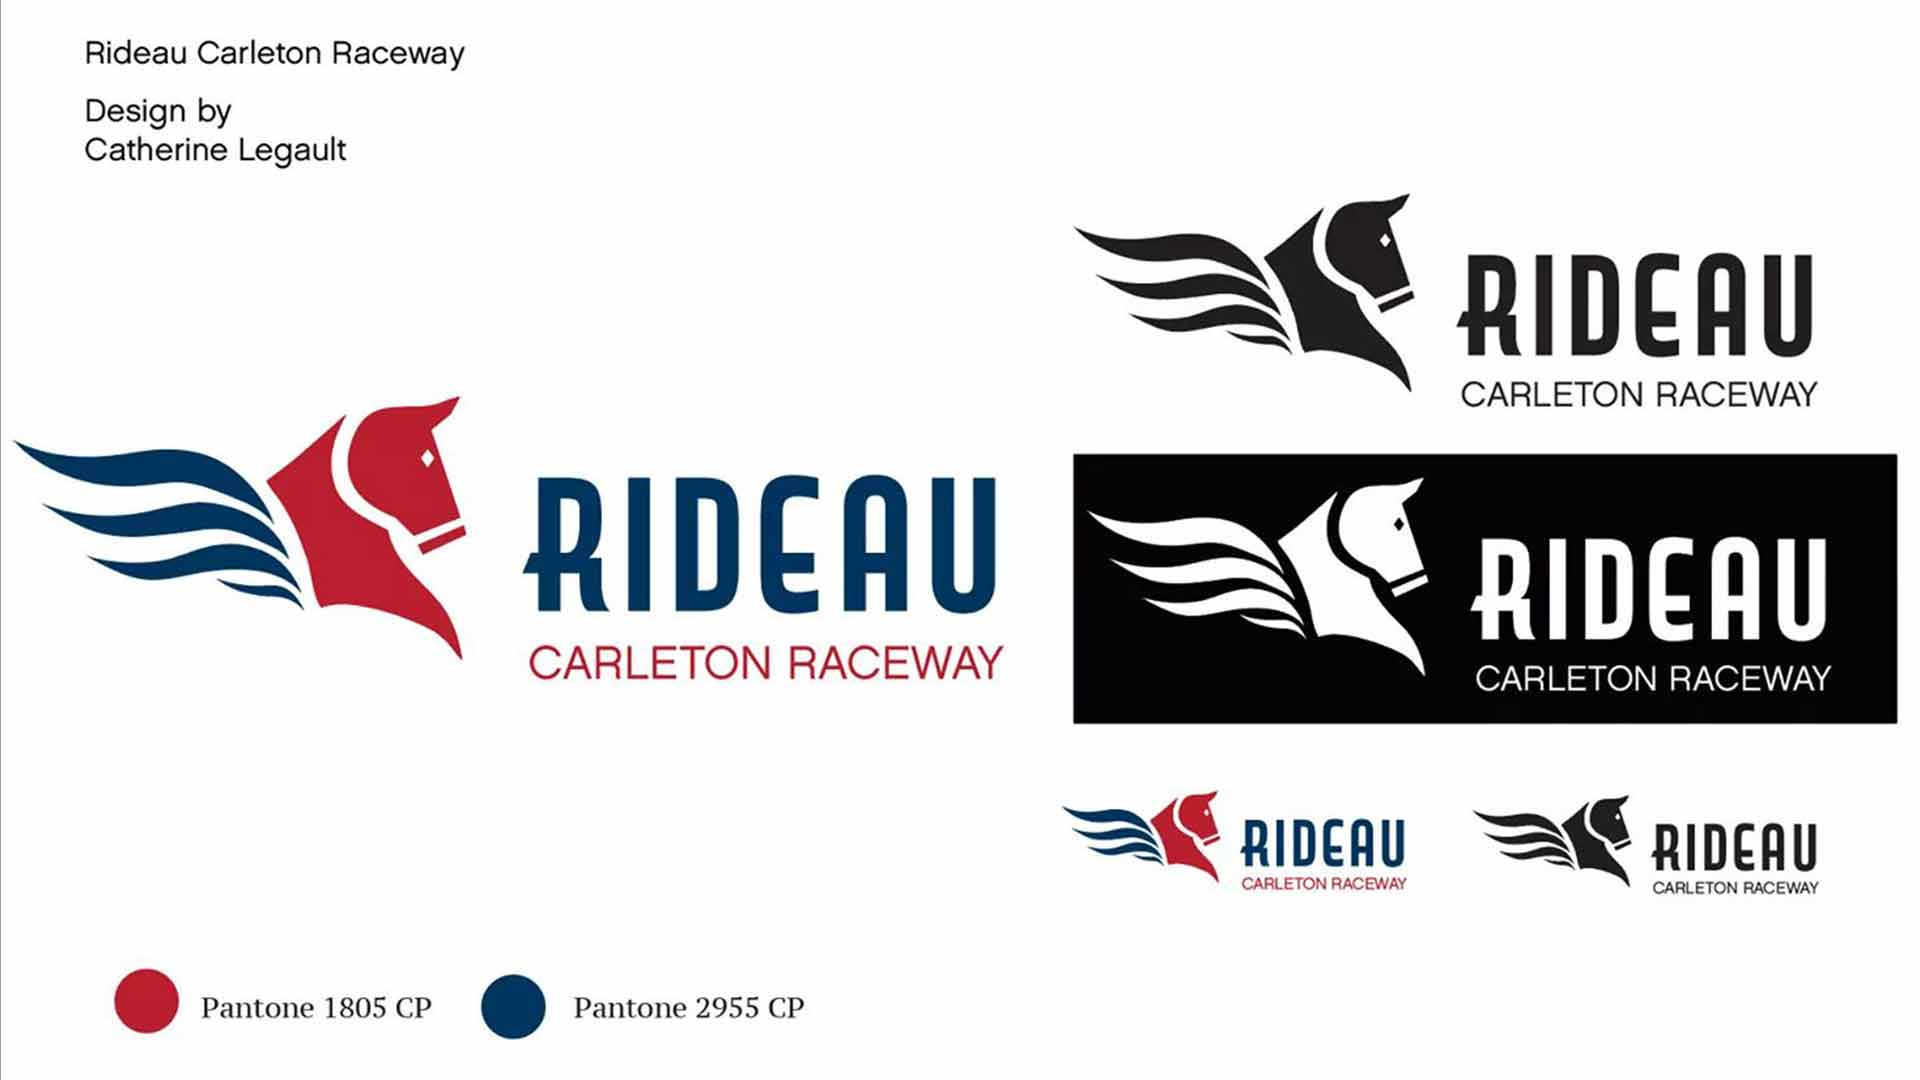
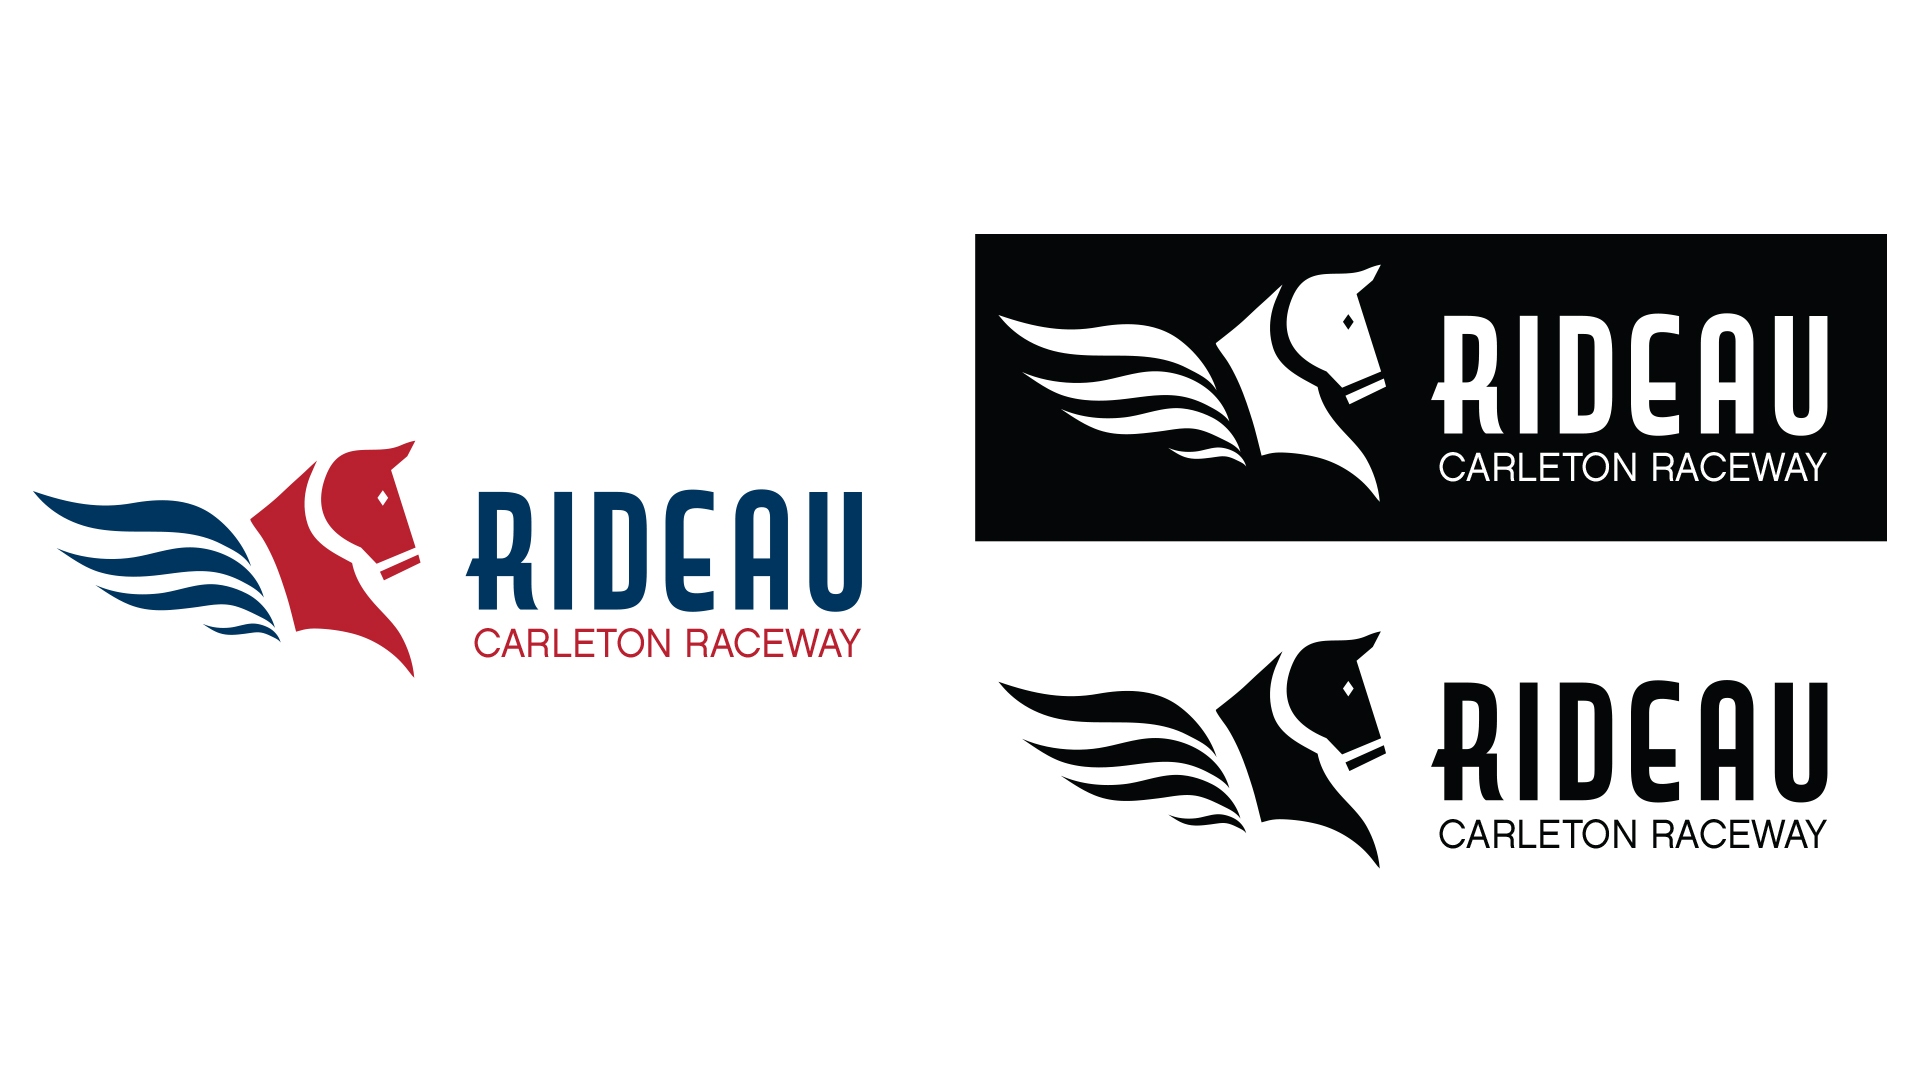
new images added

diff --git a/rideau.html b/rideau.html
@@ -83,13 +83,30 @@
             and it needed to be redone to attract the current demographic in Ottawa</p>
         </div>
       </div>
-        <h2 itemprop="name" class="island-1-2 text-center pad-b-2 pad-t-2 tena">The Result</h2>
+      <h3 itemprop="name" class="island-1-2 text-center pad-b-2 pad-t-2 tena">The Result</h3>
+      <div class="grid grid-middle">
+      <div class="unit xs-1 s-1 m-1-2 l-1-3 gutter-1-2">
+        <img itemprop="image" class="image img-flex island-1-2" src="images/final-1.jpg" alt="">
+      </div>
+      <div class="unit xs-1 s-1 m-1-2 l-1-3 gutter-1-2">
+        <img itemprop="image" class="image img-flex island-1-2" src="images/font-color.jpg" alt="">
+      </div>
+    </div>
+
+
+        <h3 itemprop="name" class="island-1-2 text-center pad-b-2 pad-t-2 tena">Application</h3>
         <div class="grid grid-middle">
         <div class="unit xs-1 s-1 m-1-2 l-1-3 gutter-1-2">
-          <img itemprop="image" class="image img-flex island-1-2" src="images/final-1.jpg" alt="">
+          <img itemprop="image" class="image img-flex island-1-2" src="images/wine-glass.jpg" alt="">
         </div>
         <div class="unit xs-1 s-1 m-1-2 l-1-3 gutter-1-2">
           <img itemprop="image" class="image img-flex island-1-2" src="images/rideau.jpg" alt="">
+        </div>
+        <div class="unit xs-1 s-1 m-1-2 l-1-3 gutter-1-2">
+          <img itemprop="image" class="image img-flex island-1-2" src="images/playing-cards.jpg" alt="">
+        </div>
+        <div class="unit xs-1 s-1 m-1-2 l-1-3 gutter-1-2">
+          <img itemprop="image" class="image img-flex island-1-2" src="images/shirt.jpg" alt="">
         </div>
         <div class="wrapper unit xs-1 s-1 m-1 l-1">
           <p itemprop="description" class="island-1-2 gutter-1-2">The current redo logo is more modern, keeping the current colors and the horse

diff --git a/campaign.html b/campaign.html
@@ -75,7 +75,17 @@
       How the identity had be be laid out we very important since it was going to go on shirts and lawn signs</p>
       </div>
 
-      <h2 itemprop="name" class="island-1-2 text-center pad-b-2 pad-t-2 tena">The Result</h2>
+      <h1 itemprop="name" class="island-1-2 text-center pad-b-2 pad-t-2 tena">Result Choice</h1>
+        <div class="grid grid-middle">
+          <div itemprop="image" class="unit xs-1 s-1 m-1-2 l-1-3 island-1-2">
+            <img class="image img-flex island-1-2" src="images/font.jpg" alt="">
+          </div>
+          <div itemprop="image" class="unit xs-1 s-1 m-1-2 l-1-3 island-1-2">
+            <img class="image img-flex island-1-2" src="images/colors.jpg" alt="">
+          </div>
+        </div>
+
+      <h3 itemprop="name" class="island-1-2 text-center pad-b-2 pad-t-2 tena">Application</h3>
       <div class="grid grid-middle">
         <div itemprop="image" class="unit xs-1 s-1 m-1-2 l-1-3 island-1-2">
           <img class="image img-flex island-1-2" src="images/magazine-ad.jpg" alt="">

diff --git a/_layouts/default.html b/_layouts/default.html
@@ -2,12 +2,9 @@
 <html lang="en-ca" dir="ltr">
   <head>
     <meta charset="utf-8">
-    <title>Catherine Legault | Portfolio</title>
+    <title>Catherine Legault · Portfolio</title>
     <meta name="viewport" content="width=device-width,initial-scale=1">
-    <link rel="stylesheet" href="{{site.baseurl}}/css/modules.css">
-    <link rel="stylesheet" href="{{site.baseurl}}/css/grid.css">
-    <link rel="stylesheet" href="{{site.baseurl}}/css/type.css">
-    <link rel="stylesheet" href="{{site.baseurl}}/css/main.css">
+    <link rel="stylesheet" href="{{site.baseurl}}/css/site.css">
     <link href="https://fonts.googleapis.com/css?family=Fira+Sans|Lato:400,900" rel="stylesheet">
   </head>
   <header id="navbar" class="b-section" role="banner" tabindex="0">

diff --git a/algonquin.html b/algonquin.html
@@ -70,7 +70,9 @@
         </div>
         <div class="wrapper unit xs-1 s-1 m-1 l-1">
           <p class="island-1-2 gutter-1-2">While working at Algonquin College I was asked to create a 2019 calander.
-          Each month in the calander represpents a holiday and a dog that is celebrating that holiday.</p>
+          As part of the Paws 4 Stress campaign that is advertised across campus. The therapy dogs get a chance to
+        have an illustrated counterpart for the calander. To stick with the Algonquin college graphic standards
+      each therapy dog had to have the geometric shapes with no curves or gradients.</p>
         </div>
       </div>
 

diff --git a/index.html b/index.html
@@ -50,13 +50,13 @@
   </header>
 
   <main role="main" id="main" tabindex="0">
-    <div class="push-2 home-banner">
+    <div class="pad-b-1-2 pad-t-1-2 push-2 home-banner">
     <img class="img-flex" src="images/home-banner.jpg" alt="">
     <div class="info pin-c">
       <div class="wrapper grid grid-middle">
         <div class="unit xs-1 s-1 m-1 l-1">
           <h1 class="push-none tena">Welcome to my Portfolio website</h1>
-          <p class="push-0 yotta">Where design meets animation</p>
+          <p class="push-0 yotta">Where design connects</p>
         </div>
       </div>
     </div>

diff --git a/css/site.css b/css/site.css
@@ -4,5 +4,5 @@
 
 {% include_relative modules.css %}
 {% include_relative grid.css %}
-{% include_relaive type.css %}
+{% include_relative type.css %}
 {% include_relative main.css %}
